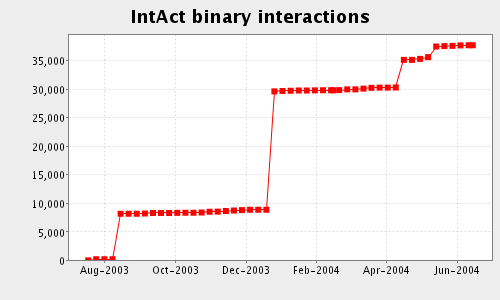
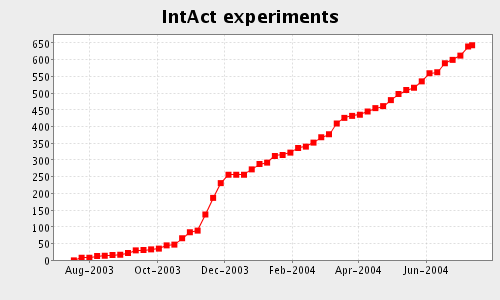
update statistics of august

diff --git a/trunk/intactCore/application/intact/doc/misc/statistics/index.html b/trunk/intactCore/application/intact/doc/misc/statistics/index.html
@@ -6,41 +6,28 @@
   <meta http-equiv="expires" content="-1">
   <title>Statistics</title>
 <!-- Don't put the base tag here; let the browser sort out the URLs -->
-  <link rel="stylesheet" type="text/css" href="intact.css">
+  <link rel="stylesheet" type="text/css" href="index_files/intact.css">
 </head>
-<body bgcolor="#ffffff" topmargin="0" leftmargin="0">
-<table border="0" height="100%" width="100%" cellspacing="5">
+<body topmargin="0" leftmargin="0" bgcolor="#ffffff">
+<table border="0" cellspacing="5" height="100%" width="100%">
   <tbody>
     <tr>
-      <td bgcolor="#cccccc" width="113" valign="top" align="left"><!--
+      <td align="left" bgcolor="#cccccc" valign="top" width="113"><!--
     The layout for the side bar, which consists of intact logo, input dialog box
     and menu. Except for the logo, other two components are optional.
 
     Author: Sugath Mudali (smudali@ebi.ac.uk)
     Version: $Id$
 -->
-      <table width="100%" border="0" cellspacing="0" cellpadding="0">
+      <table border="0" cellpadding="0" cellspacing="0" width="100%">
         <tbody>
           <tr>
-            <td bgcolor="#cccccc" valign="top" align="left" width="113"
- height="75"> <img src="logo_intact.gif" border="0"> </td>
+            <td align="left" bgcolor="#cccccc" height="75" valign="top"
+ width="113"> <img src="index_files/logo_intact.gif" border="0"> </td>
           </tr>
 <!-- filter --> <tr>
-            <td><!--
-   - Copyright (c) 2002 The European Bioinformatics Institute, and others.
-   - All rights reserved. Please see the file LICENSE
-   - in the root directory of this distribution.
-   -
-   - This layout displays graph management components for hierarchView.
-   - According to the current state of the displayed graph : its depth,
-   - we display button in order to get expanded or contracted.
-   - We show only available options (e.g. if the depth can be desacrease
-   - we don't show the contract button).
-   -
-   - @author Samuel Kerrien (skerrien@ebi.ac.uk)
-   - @version $Id$
--->
-            <hr> </td>
+            <td><br>
+            </td>
           </tr>
           <tr>
             <td>
@@ -52,10 +39,11 @@
                   </th>
                 </tr>
                 <tr>
-                  <td width="10" valign="top"><br>
+                  <td valign="top" width="10"><br>
                   </td>
                   <td valign="top"> <font size="-1"><a
- href="http://www.ebi.ac.uk/intact"> IntAct home </a> </font> </td>
+ href="http://www.ebi.ac.uk/intact">
+IntAct home </a> </font> </td>
                 </tr>
               </tbody>
             </table>
@@ -64,19 +52,19 @@
         </tbody>
       </table>
       </td>
-      <td valign="top" height="100%" width="">
-      <table width="100%" height="100%">
+      <td height="100%" valign="top" width="0">
+      <table height="100%" width="100%">
         <tbody>
           <tr>
-            <td valign="top" height="5%"> <span class="header">Statistics</span>
+            <td height="5%" valign="top"> <span class="header">Statistics</span>
             </td>
           </tr>
           <tr>
-            <td height="3" background="hor.gif"><br>
+            <td background="index_files/hor.gif" height="3"><br>
             </td>
           </tr>
           <tr>
-            <td valign="top" height=""><!-- No errors if none specified --><!--
+            <td height="0" valign="top"><!-- No errors if none specified --><!--
 - Copyright (c) 2002 The European Bioinformatics Institute, and others.
 - All rights reserved. Please see the file LICENSE
 - in the root directory of this distribution.
@@ -86,67 +74,68 @@
 - @author Sophie Huet (shuet@ebi.ac.uk), Samuel Kerrien (skerrien@ebi.ac.uk)
 - @version $Id$
 -->
-            <table width="100%" height="100%">
+            <table height="100%" width="100%">
               <tbody>
                 <tr>
-                  <td valign="top" height=""><!--
+                  <td height="0" valign="top">
+<!--
         Comment for developpers.
         This is the Database from which we extracted the data.
         Database: d002
 -->
-IntAct database contents as of <b>1 JULY 2004</b>. <br>
+IntAct database contents as of <b>28 Jul 2004</b>. <br>
                   </td>
                 </tr>
                 <tr>
-                  <td valign="top" height=""><!-- Displays the available highlightment source -->
-                  <table class="table" width="80%" border="0"
- cellspacing="1" cellpadding="2">
+                  <td height="0" valign="top"><!-- Displays the available highlightment source -->
+                  <table class="table" border="0" cellpadding="2"
+ cellspacing="1" width="80%">
                     <tbody>
                       <tr class="tableRowHeader">
-                        <th width="22%" class="tableCellHeader">Object</th>
-                        <th width="8%" class="tableCellHeader">Count</th>
-                        <th width="70%" class="tableCellHeader">Description</th>
+                        <th class="tableCellHeader" width="22%">Object</th>
+                        <th class="tableCellHeader" width="8%">Count</th>
+                        <th class="tableCellHeader" width="70%">Description</th>
                       </tr>
                       <tr class="tableRowOdd">
-                        <td class="tableCellAlignRight" width="22%"
- align="left" valign="top">Proteins</td>
-                        <td class="tableCellAlignRight" width="8%"
- align="left" valign="top">27077</td>
-                        <td class="tableCell" width="70%" align="left"
- valign="top">Number of proteins in the database</td>
+                        <td class="tableCellAlignRight" align="left"
+ valign="top" width="22%">Proteins</td>
+                        <td class="tableCellAlignRight" align="left"
+ valign="top" width="8%">27652</td>
+                        <td class="tableCell" align="left" valign="top"
+ width="70%">Number of proteins in the database</td>
                       </tr>
                       <tr class="tableRowEven">
-                        <td class="tableCellAlignRight" width="22%"
- align="left" valign="top">Interactions</td>
-                        <td class="tableCellAlignRight" width="8%"
- align="left" valign="top">30074</td>
-                        <td class="tableCell" width="70%" align="left"
- valign="top">Number of binary interactions and complexes</td>
+                        <td class="tableCellAlignRight" align="left"
+ valign="top" width="22%">Interactions</td>
+                        <td class="tableCellAlignRight" align="left"
+ valign="top" width="8%">36641</td>
+                        <td class="tableCell" align="left" valign="top"
+ width="70%">Number of binary interactions and complexes</td>
                       </tr>
                       <tr class="tableRowOdd">
-                        <td class="tableCellAlignRight" width="22%"
- align="left" valign="top">Binary interactions</td>
-                        <td class="tableCellAlignRight" width="8%"
- align="left" valign="top">37680</td>
-                        <td class="tableCell" width="70%" align="left"
- valign="top">Number of binary interactions, n-ary interactions
-expanded according to the "spoke" model</td>
+                        <td class="tableCellAlignRight" align="left"
+ valign="top" width="22%">Binary interactions</td>
+                        <td class="tableCellAlignRight" align="left"
+ valign="top" width="8%">44416</td>
+                        <td class="tableCell" align="left" valign="top"
+ width="70%">Number of binary interactions, n-ary interactions expanded
+according to the "spoke" model</td>
                       </tr>
                       <tr class="tableRowEven">
-                        <td class="tableCellAlignRight" width="22%"
- align="left" valign="top">Experiments</td>
-                        <td class="tableCellAlignRight" width="8%"
- align="left" valign="top">570</td>
-                        <td class="tableCell" width="70%" align="left"
- valign="top">Distinct experiments</td>
+                        <td class="tableCellAlignRight" align="left"
+ valign="top" width="22%">Experiments</td>
+                        <td class="tableCellAlignRight" align="left"
+ valign="top" width="8%">643</td>
+                        <td class="tableCell" align="left" valign="top"
+ width="70%">Distinct experiments</td>
                       </tr>
                       <tr class="tableRowOdd">
-                        <td class="tableCellAlignRight" width="22%"
- align="left" valign="top">Terms</td>
-                        <td class="tableCellAlignRight" width="8%"
- align="left" valign="top">244</td>
-                        <td class="tableCell" width="70%" align="left"
- valign="top">Controlled vocabulary terms</td>
+                        <td class="tableCellAlignRight" align="left"
+ valign="top" width="22%">Terms</td>
+                        <td class="tableCellAlignRight" align="left"
+ valign="top" width="8%">252</td>
+                        <td class="tableCell" align="left" valign="top"
+ width="70%">Controlled vocabulary terms</td>
                       </tr>
                     </tbody>
                   </table>
@@ -160,48 +149,43 @@ expanded according to the "spoke" model</td>
                   </td>
                 </tr>
                 <tr>
-                  <td valign="top" height="">
-                  <table width="100%" height="100%">
+                  <td height="0" valign="top">
+                  <table height="100%" width="100%">
                     <tbody>
                       <tr>
-                        <td valign="top" height=""> <map
- name="jfreechart-40543.png">
-                        </map>
-                        <img src="index_files/DisplayChart.png"
- style="border: 0px solid ; width: 500px; height: 300px;"
- usemap="#testing" title="" alt=""> </td>
-                      </tr>
-                      <tr>
-                        <td valign="top" height=""> <map
- name="jfreechart-40544.png">
-                        </map>
-                        <img src="index_files/DisplayChart_003.png"
- style="border: 0px solid ; width: 500px; height: 300px;"
- usemap="#testing" title="" alt=""> </td>
-                      </tr>
-                      <tr>
-                        <td valign="top" height=""> <map
- name="jfreechart-40545.png">
-                        </map>
-                        <img src="index_files/DisplayChart_004.png"
- style="border: 0px solid ; width: 500px; height: 300px;"
- usemap="#testing" title="" alt=""> </td>
-                      </tr>
-                      <tr>
-                        <td valign="top" height=""> <map
- name="jfreechart-40546.png">
+                        <td height="0" valign="top"> <map
+ name="jfreechart-19143.png">
                         </map>
                         <img src="index_files/DisplayChart_002.png"
- style="border: 0px solid ; width: 500px; height: 300px;"
- usemap="#testing" title="" alt=""> </td>
+ usemap="#jfreechart-19143.png" border="0" height="300" width="500"> </td>
                       </tr>
                       <tr>
-                        <td valign="top" height=""> <map
- name="jfreechart-40547.png">
+                        <td height="0" valign="top"> <map
+ name="jfreechart-19144.png">
                         </map>
                         <img src="index_files/DisplayChart_005.png"
- style="border: 0px solid ; width: 500px; height: 300px;"
- usemap="#testing" title="" alt=""> </td>
+ usemap="#jfreechart-19144.png" border="0" height="300" width="500"> </td>
+                      </tr>
+                      <tr>
+                        <td height="0" valign="top"> <map
+ name="jfreechart-19145.png">
+                        </map>
+                        <img src="index_files/DisplayChart_003.png"
+ usemap="#jfreechart-19145.png" border="0" height="300" width="500"> </td>
+                      </tr>
+                      <tr>
+                        <td height="0" valign="top"> <map
+ name="jfreechart-19146.png">
+                        </map>
+                        <img src="index_files/DisplayChart.png"
+ usemap="#jfreechart-19146.png" border="0" height="300" width="500"> </td>
+                      </tr>
+                      <tr>
+                        <td height="0" valign="top"> <map
+ name="jfreechart-19147.png">
+                        </map>
+                        <img src="index_files/DisplayChart_004.png"
+ usemap="#jfreechart-19147.png" border="0" height="300" width="500"> </td>
                       </tr>
                     </tbody>
                   </table>
@@ -212,7 +196,7 @@ expanded according to the "spoke" model</td>
             </td>
           </tr>
           <tr>
-            <td valign="bottom" height="10%"><!--
+            <td height="10%" valign="bottom"><!--
   - Author: Sugath Mudali (smudali@ebi.ac.uk)
   - Version: $Id$
   - Copyright (c) 2002-2003 The European Bioinformatics Institute, and others.
@@ -225,9 +209,9 @@ expanded according to the "spoke" model</td>
                 <tr>
                   <td> Please send any questions or suggestions to <a
  href="mailto:intact-help@ebi.ac.uk">intact-help@ebi.ac.uk</a> <br>
-Last modified: <i>29-June-2004 07:31 PM by sp</i> </td>
-                  <td class="tableCell"> <img border="0" align="right"
- src="struts-power.gif"> </td>
+Last modified: <i>28-July-2004 10:02 AM by Samuel</i> </td>
+                  <td class="tableCell"> <img
+ src="index_files/struts-power.gif" align="right" border="0"> </td>
                 </tr>
               </tbody>
             </table>
